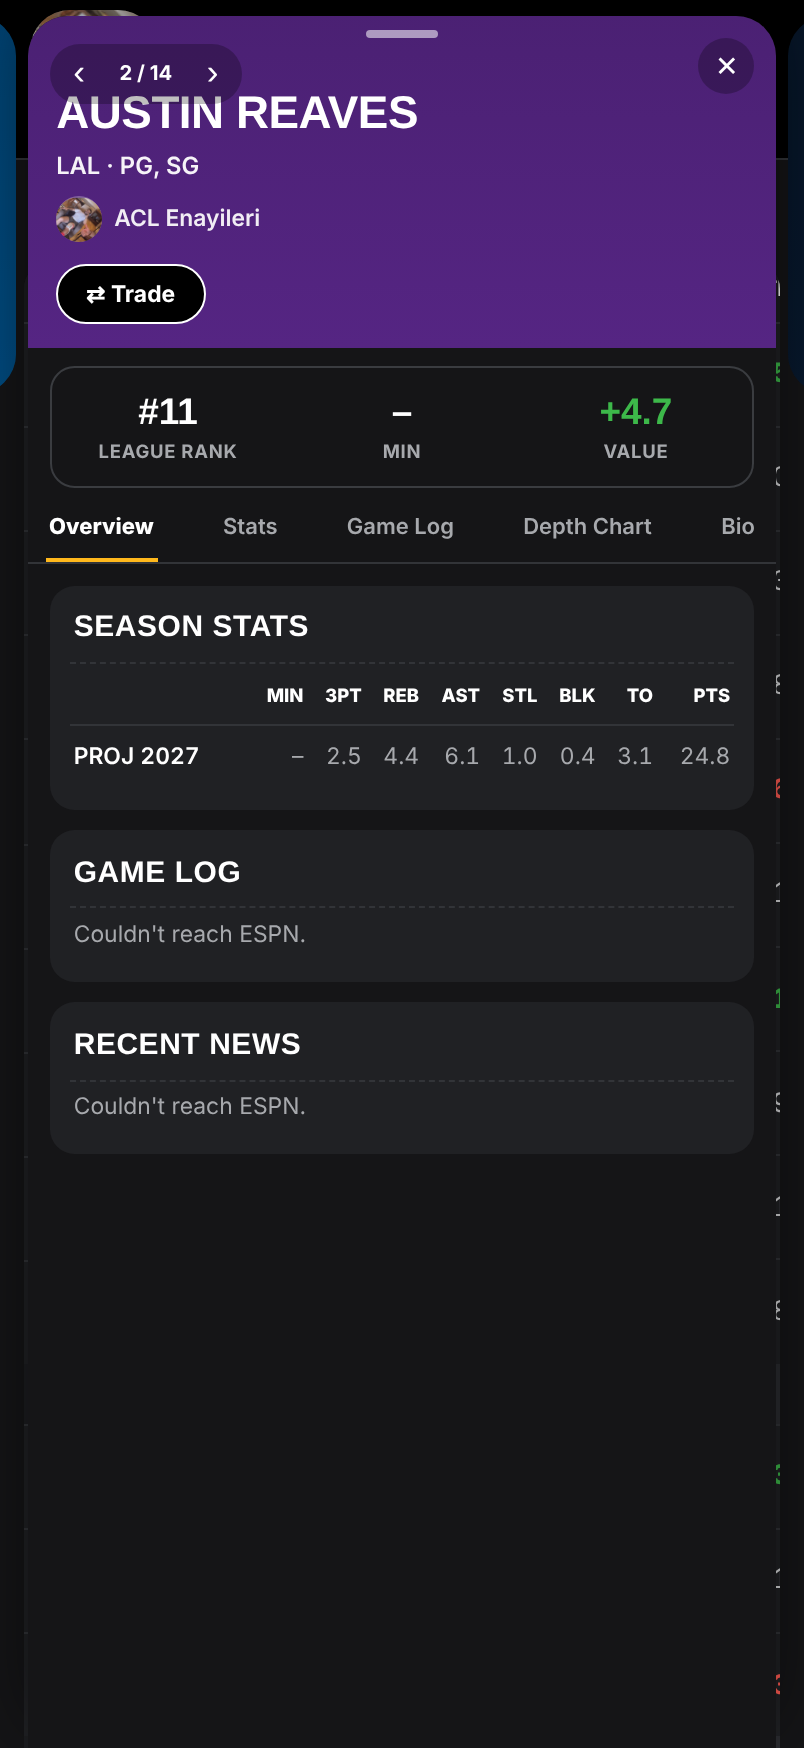
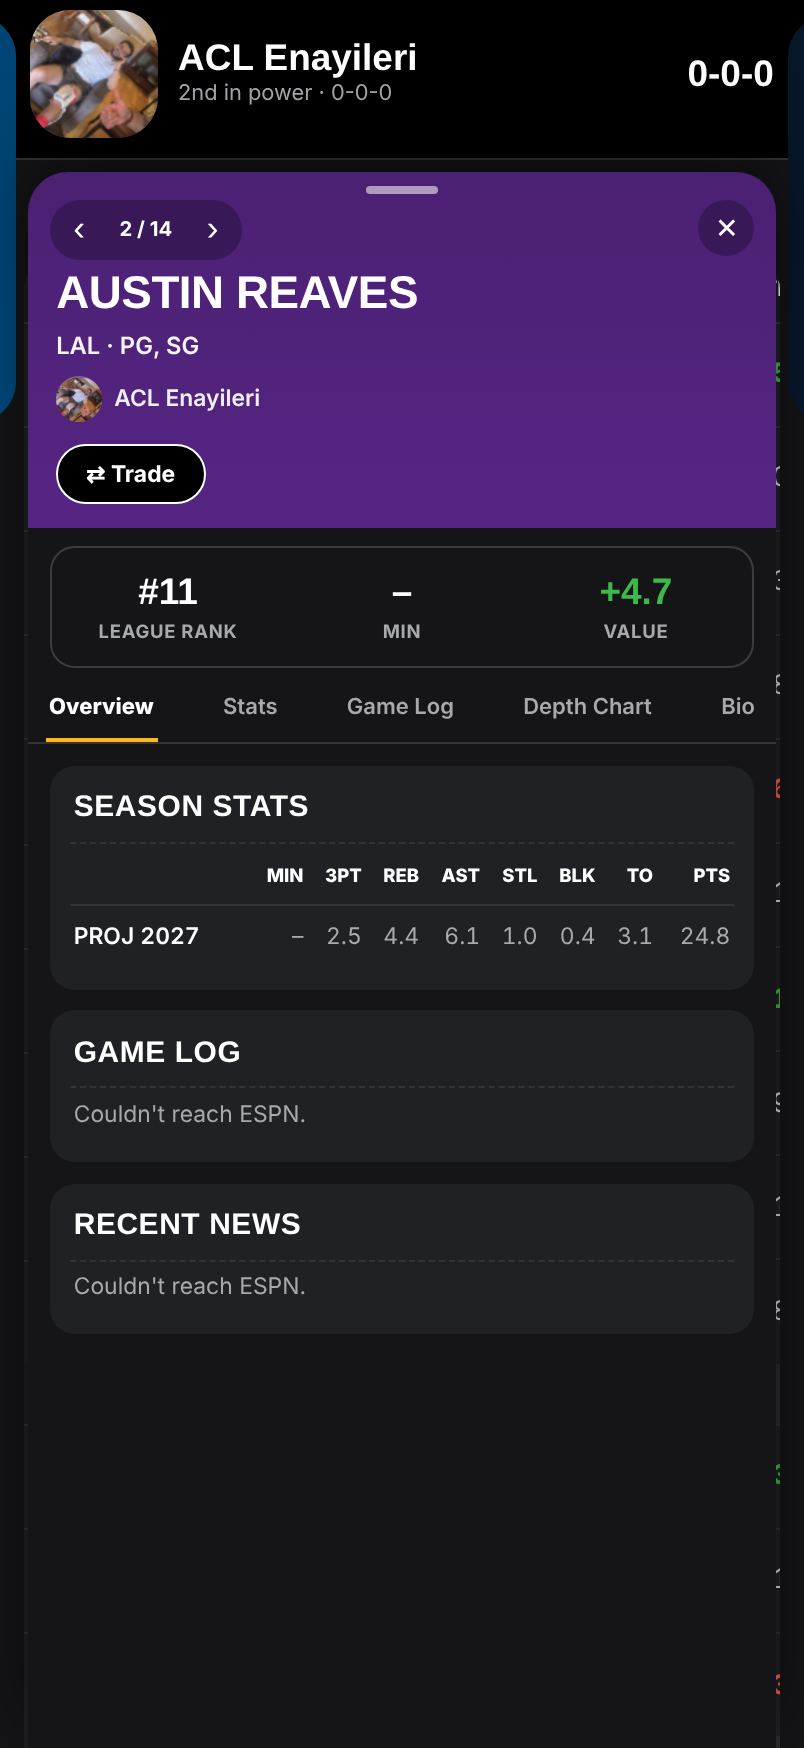
Headers lower on every page, bigger sub-tabs, shorter matchup scoreboard
Claude-Session: https://claude.ai/code/session_01Bze7554zYTgci3mfzKEDgc

diff --git a/index.html b/index.html
@@ -1019,6 +1019,18 @@ html body .pp.pp{top:max(8px,calc(env(safe-area-inset-top,0px)*1.19 + 12px))!imp
 html body .pp.pp .pph{padding-top:56px!important}
 html body .pp.pp .ppx{top:16px!important}
 html body .pp.pp .ppnav{top:16px!important}
+html.hd-sa .hdstk{padding-top:calc(var(--sat) + 36px)!important}
+html body .whtabs{gap:24px!important}
+html body .whtabs button{font:800 19px var(--f-ui)!important;padding:10px 0 11px!important;border-bottom-width:3px!important}
+html body .hd-otabs{gap:24px!important}
+html body .hd-otabs button{font:800 19px system-ui!important;padding:10px 0 11px!important}
+html body .ghx{padding:12px 16px 11px!important}
+html body .ghx .tlg.md,html body .ghx .av.tlgx.md,html body .ghx .gt .av.md{width:60px!important;height:60px!important}
+html body .ghx .gsc b{font-size:62px!important}
+html body .ghx .gsc span{font-size:42px!important}
+html body .ghx .gn{margin:7px 0 0!important}
+html body .ghx .gn b{font-size:19px!important}
+html body .ghx .gn small{font-size:13px!important}
 </style>
 <div class="stage">
  <aside class="side"><h1>Fantasy Plus <span>for iPhone</span></h1><p>Design of the iPhone app. Tap around, it all works: the tabs, the players, the trade builder.</p><ul><li><b>Home</b>: score, last night, this week's review, category ranks, waivers. Tap the score for the full game.</li><li><b>Team</b>: roster and player cards</li><li><b>Matchup</b>: ESPN-style category table with our ball logic</li><li><b>More</b>: rankings and settings</li><li><b>Trades</b>: your market and the builder</li></ul><p>Numbers are a snapshot of your Anti-Quemo league (preseason projections). Photos show as initials here; the app uses real headshots.</p><p>On your phone, open this link directly and it fills the screen.</p></aside>

diff --git a/classic.html b/classic.html
@@ -967,6 +967,18 @@ html body .pp.pp{top:max(8px,calc(env(safe-area-inset-top,0px)*1.19 + 12px))!imp
 html body .pp.pp .pph{padding-top:56px!important}
 html body .pp.pp .ppx{top:16px!important}
 html body .pp.pp .ppnav{top:16px!important}
+html.hd-sa .hdstk{padding-top:calc(var(--sat) + 36px)!important}
+html body .whtabs{gap:24px!important}
+html body .whtabs button{font:800 19px var(--f-ui)!important;padding:10px 0 11px!important;border-bottom-width:3px!important}
+html body .hd-otabs{gap:24px!important}
+html body .hd-otabs button{font:800 19px system-ui!important;padding:10px 0 11px!important}
+html body .ghx{padding:12px 16px 11px!important}
+html body .ghx .tlg.md,html body .ghx .av.tlgx.md,html body .ghx .gt .av.md{width:60px!important;height:60px!important}
+html body .ghx .gsc b{font-size:62px!important}
+html body .ghx .gsc span{font-size:42px!important}
+html body .ghx .gn{margin:7px 0 0!important}
+html body .ghx .gn b{font-size:19px!important}
+html body .ghx .gn small{font-size:13px!important}
 </style>
 <div class="stage">
  <aside class="side"><h1>Fantasy Plus <span>for iPhone</span></h1><p>Design of the iPhone app. Tap around, it all works: the tabs, the players, the trade builder.</p><ul><li><b>Home</b>: score, last night, this week's review, category ranks, waivers. Tap the score for the full game.</li><li><b>Team</b>: roster and player cards</li><li><b>Matchup</b>: ESPN-style category table with our ball logic</li><li><b>More</b>: rankings and settings</li><li><b>Trades</b>: your market and the builder</li></ul><p>Numbers are a snapshot of your Anti-Quemo league (preseason projections). Photos show as initials here; the app uses real headshots.</p><p>On your phone, open this link directly and it fills the screen.</p></aside>
